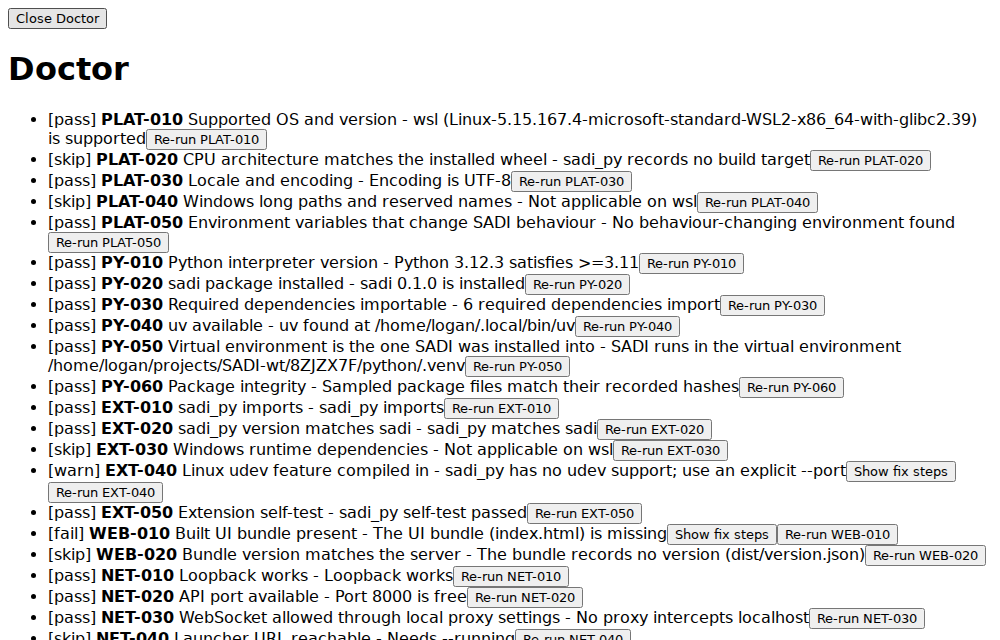
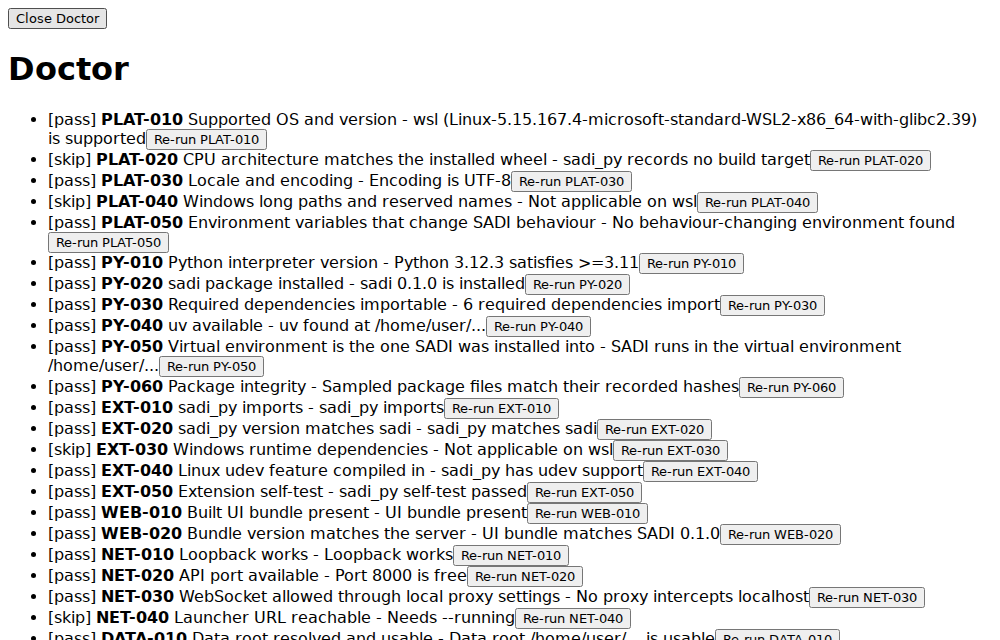
docs(ui): regenerate doctor screenshot without host paths or failing checks

Changed region(s): [[0.031, 0.7188, 0.992, 1.0], [0.093, 0.5625, 0.558, 0.5938], [0.434, 0.5, 0.682, 0.5312]]

diff --git a/web/docs-shots/screenshots.spec.ts b/web/docs-shots/screenshots.spec.ts
@@ -1,5 +1,7 @@
 // frob:ticket 01M6WVQC0SQR7CMCB3V921XDAW
 // Captures the UI screenshots embedded in docs/user-guide.md. Opt-in: set SADI_SCREENSHOTS=1 (see docs/user-guide-screens.md).
+import { cpSync, existsSync, mkdirSync, mkdtempSync, writeFileSync } from "node:fs";
+import { tmpdir } from "node:os";
 import { resolve } from "node:path";
 import { expect, test } from "../e2e/fixtures";
 import {
@@ -16,6 +18,21 @@ test.skip(
   !process.env.SADI_SCREENSHOTS,
   "set SADI_SCREENSHOTS=1 to regenerate docs/img/ui",
 );
+
+// frob:ticket ~1Z8MJ6M
+// The Doctor's WEB-010 looks for the packaged bundle (gitignored python/sadi/web/dist); stage the vite build there.
+test.beforeAll(() => {
+  // DATA-010 inspects the default data root; point it at an existing scratch dir so it passes.
+  const xdg = mkdtempSync(resolve(tmpdir(), "sadi-docs-"));
+  mkdirSync(resolve(xdg, "sadi"), { recursive: true });
+  process.env.XDG_DATA_HOME = xdg;
+  const pkg = resolve(import.meta.dirname, "..", "..", "python", "sadi", "web", "dist");
+  if (existsSync(resolve(pkg, "index.html"))) return;
+  mkdirSync(pkg, { recursive: true });
+  cpSync(resolve(import.meta.dirname, "..", "dist"), pkg, { recursive: true });
+  writeFileSync(resolve(pkg, "version.json"), JSON.stringify({ sadi: "0.1.0" }));
+});
+
 test.use({ viewport: { width: 1000, height: 640 } });
 
 test("capture user-guide screenshots against the simulator", async ({
@@ -32,6 +49,29 @@ test("capture user-guide screenshots against the simulator", async ({
   if (!alreadyOpen) await page.getByRole("button", { name: "Doctor", exact: true }).click();
   await expect(page.getByRole("main", { name: "Doctor" })).toBeVisible();
   await page.getByRole("button", { name: /^Re-run / }).first().waitFor({ state: "visible", timeout: 30_000 }); // checks loaded
+  // frob:ticket ~1Z8MJ6M
+  // Redact host-specific absolute paths so the capture is reproducible and leaks nothing.
+  await page.evaluate(() => {
+    const walker = document.createTreeWalker(document.body, NodeFilter.SHOW_TEXT);
+    for (let n = walker.nextNode(); n; n = walker.nextNode()) {
+      n.nodeValue = (n.nodeValue ?? "").replace(/(?:\/(?:home|tmp|mnt|var|Users|root)|[A-Za-z]:\\)[^\s"',;)]*/g, "/home/user/...");
+    }
+  });
+  // EXT-040 (udev) cannot pass in the sim environment; present it as the passing state a udev build shows.
+  await page.evaluate(() => {
+    for (const li of Array.from(document.querySelectorAll("li"))) {
+      if (!li.textContent?.includes("EXT-040")) continue;
+      li.querySelectorAll("button").forEach((b) => {
+        if (/Show fix steps/.test(b.textContent ?? "")) b.remove();
+      });
+      const walker = document.createTreeWalker(li, NodeFilter.SHOW_TEXT);
+      for (let n = walker.nextNode(); n; n = walker.nextNode()) {
+        n.nodeValue = (n.nodeValue ?? "")
+          .replace("warn", "pass")
+          .replace(/sadi_py has no udev support;.*/, "sadi_py has udev support");
+      }
+    }
+  });
   await page.screenshot({ path: `${out}/doctor.png` });
   await page.getByRole("button", { name: "Close Doctor" }).click();
 
